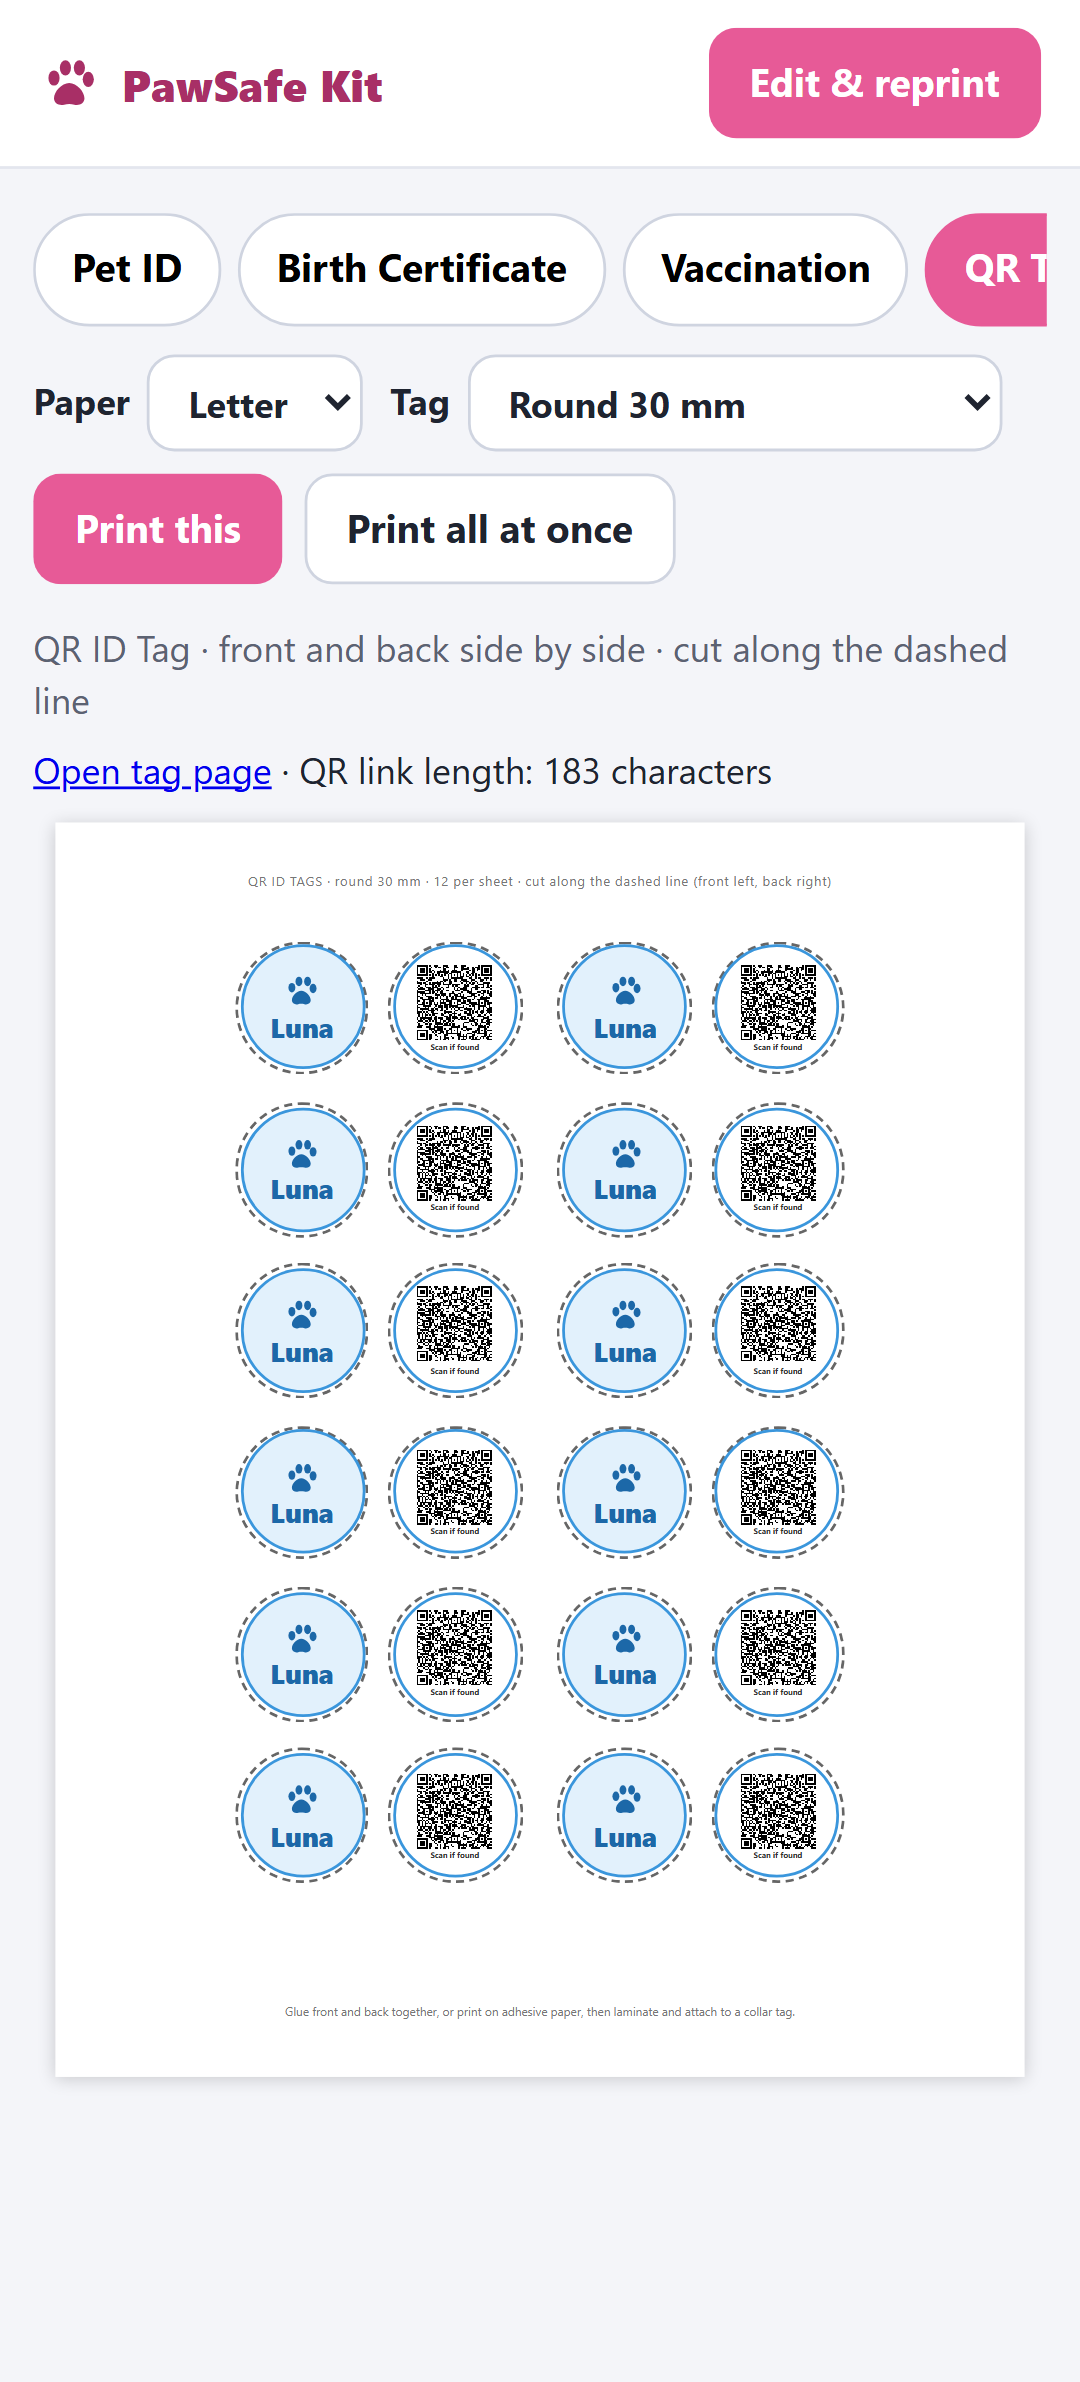
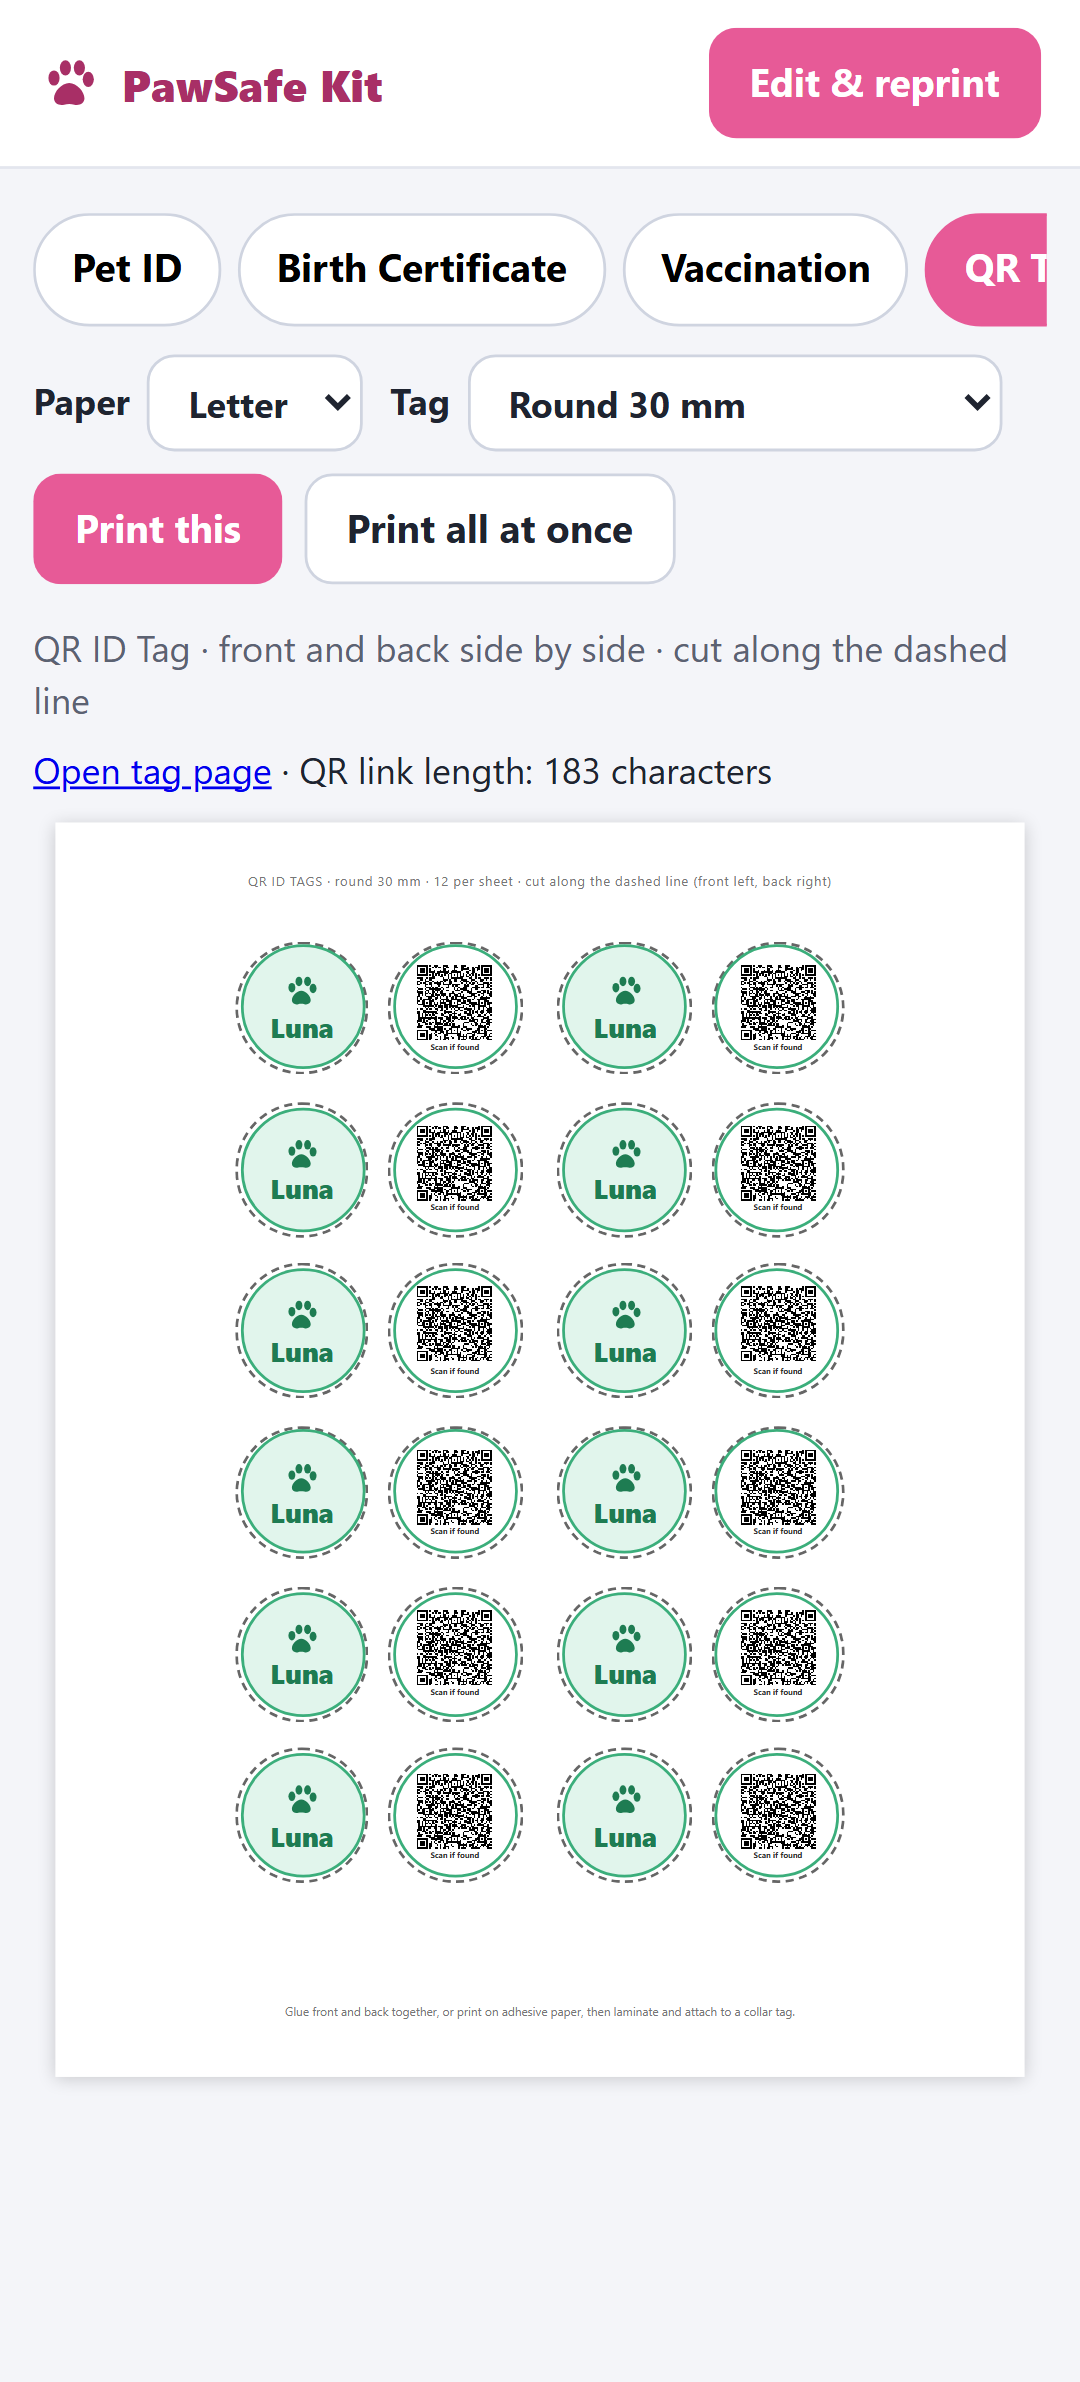
found.html: show phone as +1 555 010 0100; tag sheet shot in green

diff --git a/found.js b/found.js
@@ -26,6 +26,11 @@
   var kind = KIND[p.sp] || 'pet';
   var name = (p.n || '').trim();
   var phone = PS.normalizePhone(p.p);
+  // Solo para mostrar: +15550100100 se ve como +1 555 010 0100. El enlace tel: y wa.me usan el número sin espacios.
+  function showPhone(n) {
+    var m = /^\+1(\d{3})(\d{3})(\d{4})$/.exec(n);
+    return m ? '+1 ' + m[1] + ' ' + m[2] + ' ' + m[3] : n;
+  }
 
   var html = '';
   if (p.i && /^[A-Za-z0-9+\/=_-]+$/.test(p.i)) {
@@ -40,7 +45,7 @@
   var info = '';
   if (p.o) info += '<div><span>Owner</span>' + esc(p.o) + '</div>';
   if (p.a) info += '<div><span>Address</span>' + esc(p.a) + '</div>';
-  if (phone) info += '<div><span>Phone</span>' + esc(phone) + '</div>';
+  if (phone) info += '<div><span>Phone</span>' + esc(showPhone(phone)) + '</div>';
   if (info) html += '<div class="info">' + info + '</div>';
 
   if (phone) {
